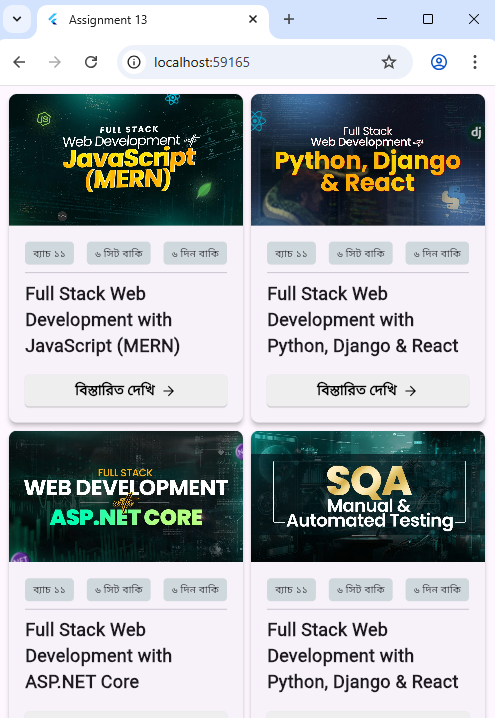
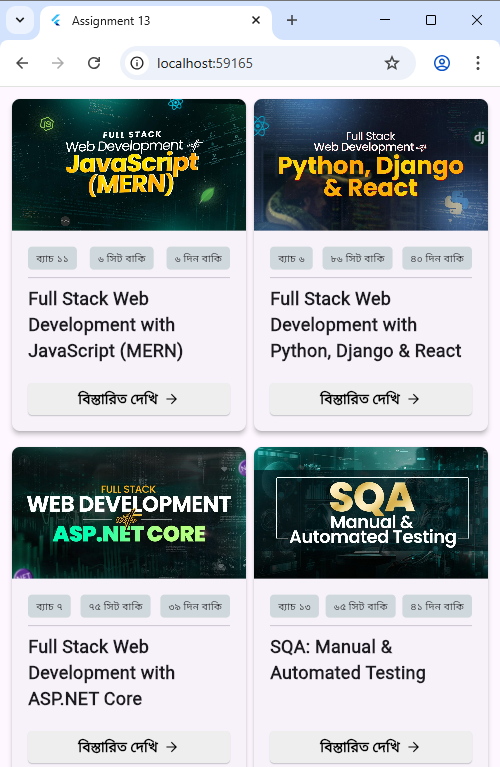
Assignment 13

diff --git a/lib/homepage.dart b/lib/homepage.dart
@@ -23,6 +23,7 @@ class HomePageCard extends StatelessWidget {
 
     return SizedBox(
       width: (screenWidth-16) / 2,
+      height: 340,
       child: Card(
         elevation: 4,
         shape: RoundedRectangleBorder(
@@ -40,76 +41,78 @@ class HomePageCard extends StatelessWidget {
                 fit: BoxFit.cover,
               ),
             ),
-            Padding(
-              padding: const EdgeInsets.all(16.0),
-              child: Column(
-                crossAxisAlignment: CrossAxisAlignment.start,
-                children: [
-                  Row(
-                    mainAxisAlignment: MainAxisAlignment.spaceBetween,
-                    children: [
-                      Container(
-                        decoration: BoxDecoration(
-                          color: Colors.blueGrey[100],
-                          borderRadius: BorderRadius.circular(4),
-                        ),
-                        child: Padding(
-                          padding: const EdgeInsets.symmetric(horizontal: 8, vertical: 4),
-                          child: Text('ব্যাচ $batch', style: TextStyle(fontSize: 10)),
-                        ),
-                      ),
-                      Container(
-                        decoration: BoxDecoration(
-                          color: Colors.blueGrey[100],
-                          borderRadius: BorderRadius.circular(4),
-                        ),
-                        child: Padding(
-                          padding: const EdgeInsets.symmetric(horizontal: 8, vertical: 4),
-                          child: Text('$seat সিট বাকি', style: TextStyle(fontSize: 10)),
-                        ),
-                      ),
-                      Container(
-                        decoration: BoxDecoration(
-                          color: Colors.blueGrey[100],
-                          borderRadius: BorderRadius.circular(4),
-                        ),
-                        child: Padding(
-                          padding: const EdgeInsets.symmetric(horizontal: 8, vertical: 4),
-                          child: Text('$days দিন বাকি', style: TextStyle(fontSize: 10)),
-                        ),
-                      ),
-                    ],
-                  ),
-                  Divider(),
-                  Text(name, style: TextStyle(fontSize: 18, fontWeight: FontWeight.bold)),
-                  SizedBox(height: 16),
-                  SizedBox(
-                    width: double.infinity,
-                    child: ElevatedButton(
-                      onPressed: () {},
-                      style: ElevatedButton.styleFrom(
-                        backgroundColor: Colors.grey[200],
-                        shape: RoundedRectangleBorder(
-                          borderRadius: BorderRadius.circular(4),
-                        ),
-                      ),
-                      child: Row(
-                        mainAxisAlignment: MainAxisAlignment.center,
-                        children: [
-                          Text(
-                            'বিস্তারিত দেখি',
-                            style: TextStyle(
-                              color: Colors.black,
-                              fontWeight: FontWeight.bold,
-                            )
+            Expanded(
+              child: Padding(
+                padding: const EdgeInsets.all(16.0),
+                child: Column(
+                  crossAxisAlignment: CrossAxisAlignment.start,
+                  children: [
+                    Row(
+                      mainAxisAlignment: MainAxisAlignment.spaceBetween,
+                      children: [
+                        Container(
+                          decoration: BoxDecoration(
+                            color: Colors.blueGrey[100],
+                            borderRadius: BorderRadius.circular(4),
                           ),
-                          SizedBox(width: 6),
-                          Icon(Icons.arrow_forward, size: 16, color: Colors.black),
-                        ],
+                          child: Padding(
+                            padding: const EdgeInsets.symmetric(horizontal: 8, vertical: 4),
+                            child: Text('ব্যাচ $batch', style: TextStyle(fontSize: 10)),
+                          ),
+                        ),
+                        Container(
+                          decoration: BoxDecoration(
+                            color: Colors.blueGrey[100],
+                            borderRadius: BorderRadius.circular(4),
+                          ),
+                          child: Padding(
+                            padding: const EdgeInsets.symmetric(horizontal: 8, vertical: 4),
+                            child: Text('$seat সিট বাকি', style: TextStyle(fontSize: 10)),
+                          ),
+                        ),
+                        Container(
+                          decoration: BoxDecoration(
+                            color: Colors.blueGrey[100],
+                            borderRadius: BorderRadius.circular(4),
+                          ),
+                          child: Padding(
+                            padding: const EdgeInsets.symmetric(horizontal: 8, vertical: 4),
+                            child: Text('$days দিন বাকি', style: TextStyle(fontSize: 10)),
+                          ),
+                        ),
+                      ],
+                    ),
+                    Divider(),
+                    Text(name, style: TextStyle(fontSize: 18, fontWeight: FontWeight.bold)),
+                    Spacer(),
+                    SizedBox(
+                      width: double.infinity,
+                      child: ElevatedButton(
+                        onPressed: () {},
+                        style: ElevatedButton.styleFrom(
+                          backgroundColor: Colors.grey[200],
+                          shape: RoundedRectangleBorder(
+                            borderRadius: BorderRadius.circular(4),
+                          ),
+                        ),
+                        child: Row(
+                          mainAxisAlignment: MainAxisAlignment.center,
+                          children: [
+                            Text(
+                              'বিস্তারিত দেখি',
+                              style: TextStyle(
+                                color: Colors.black,
+                                fontWeight: FontWeight.bold,
+                              )
+                            ),
+                            SizedBox(width: 6),
+                            Icon(Icons.arrow_forward, size: 16, color: Colors.black),
+                          ],
+                        ),
                       ),
                     ),
-                  ),
-                ],
+                  ],
+                ),
               ),
             ),
           ],

diff --git a/lib/main.dart b/lib/main.dart
@@ -39,13 +39,14 @@ class HomePage extends StatelessWidget {
               Row(
                 children: [
                   HomePageCard(image: "https://cdn.ostad.app/course/photo/2024-12-17T11-35-19.890Z-Course%20Thumbnail%2012.jpg", batch: "১১", seat: "৬", days: "৬", name: "Full Stack Web Development with JavaScript (MERN)"),
-                  HomePageCard(image: "https://cdn.ostad.app/course/photo/2024-12-19T15-48-52.487Z-Full-Stack-Web-Development-with-Python,-Django-&-React.jpg", batch: "১১", seat: "৬", days: "৬", name: "Full Stack Web Development with Python, Django & React"),
+                  HomePageCard(image: "https://cdn.ostad.app/course/photo/2024-12-19T15-48-52.487Z-Full-Stack-Web-Development-with-Python,-Django-&-React.jpg", batch: "৬", seat: "৮৬", days: "৪০", name: "Full Stack Web Development with Python, Django & React"),
                 ],
               ),
+              SizedBox(height: 8),
               Row(
                 children: [
-                  HomePageCard(image: "https://cdn.ostad.app/course/photo/2024-12-18T15-29-34.261Z-Untitled-1%20(23).jpg", batch: "১১", seat: "৬", days: "৬", name: "Full Stack Web Development with ASP.NET Core"),
-                  HomePageCard(image: "https://cdn.ostad.app/course/photo/2024-12-18T15-24-44.114Z-Untitled-1%20(21).jpg", batch: "১১", seat: "৬", days: "৬", name: "Full Stack Web Development with Python, Django & React"),
+                  HomePageCard(image: "https://cdn.ostad.app/course/photo/2024-12-18T15-29-34.261Z-Untitled-1%20(23).jpg", batch: "৭", seat: "৭৫", days: "৩৯", name: "Full Stack Web Development with ASP.NET Core"),
+                  HomePageCard(image: "https://cdn.ostad.app/course/photo/2024-12-18T15-24-44.114Z-Untitled-1%20(21).jpg", batch: "১৩", seat: "৬৫", days: "৪১", name: "SQA: Manual & Automated Testing"),
                 ],
               ),
             ],
